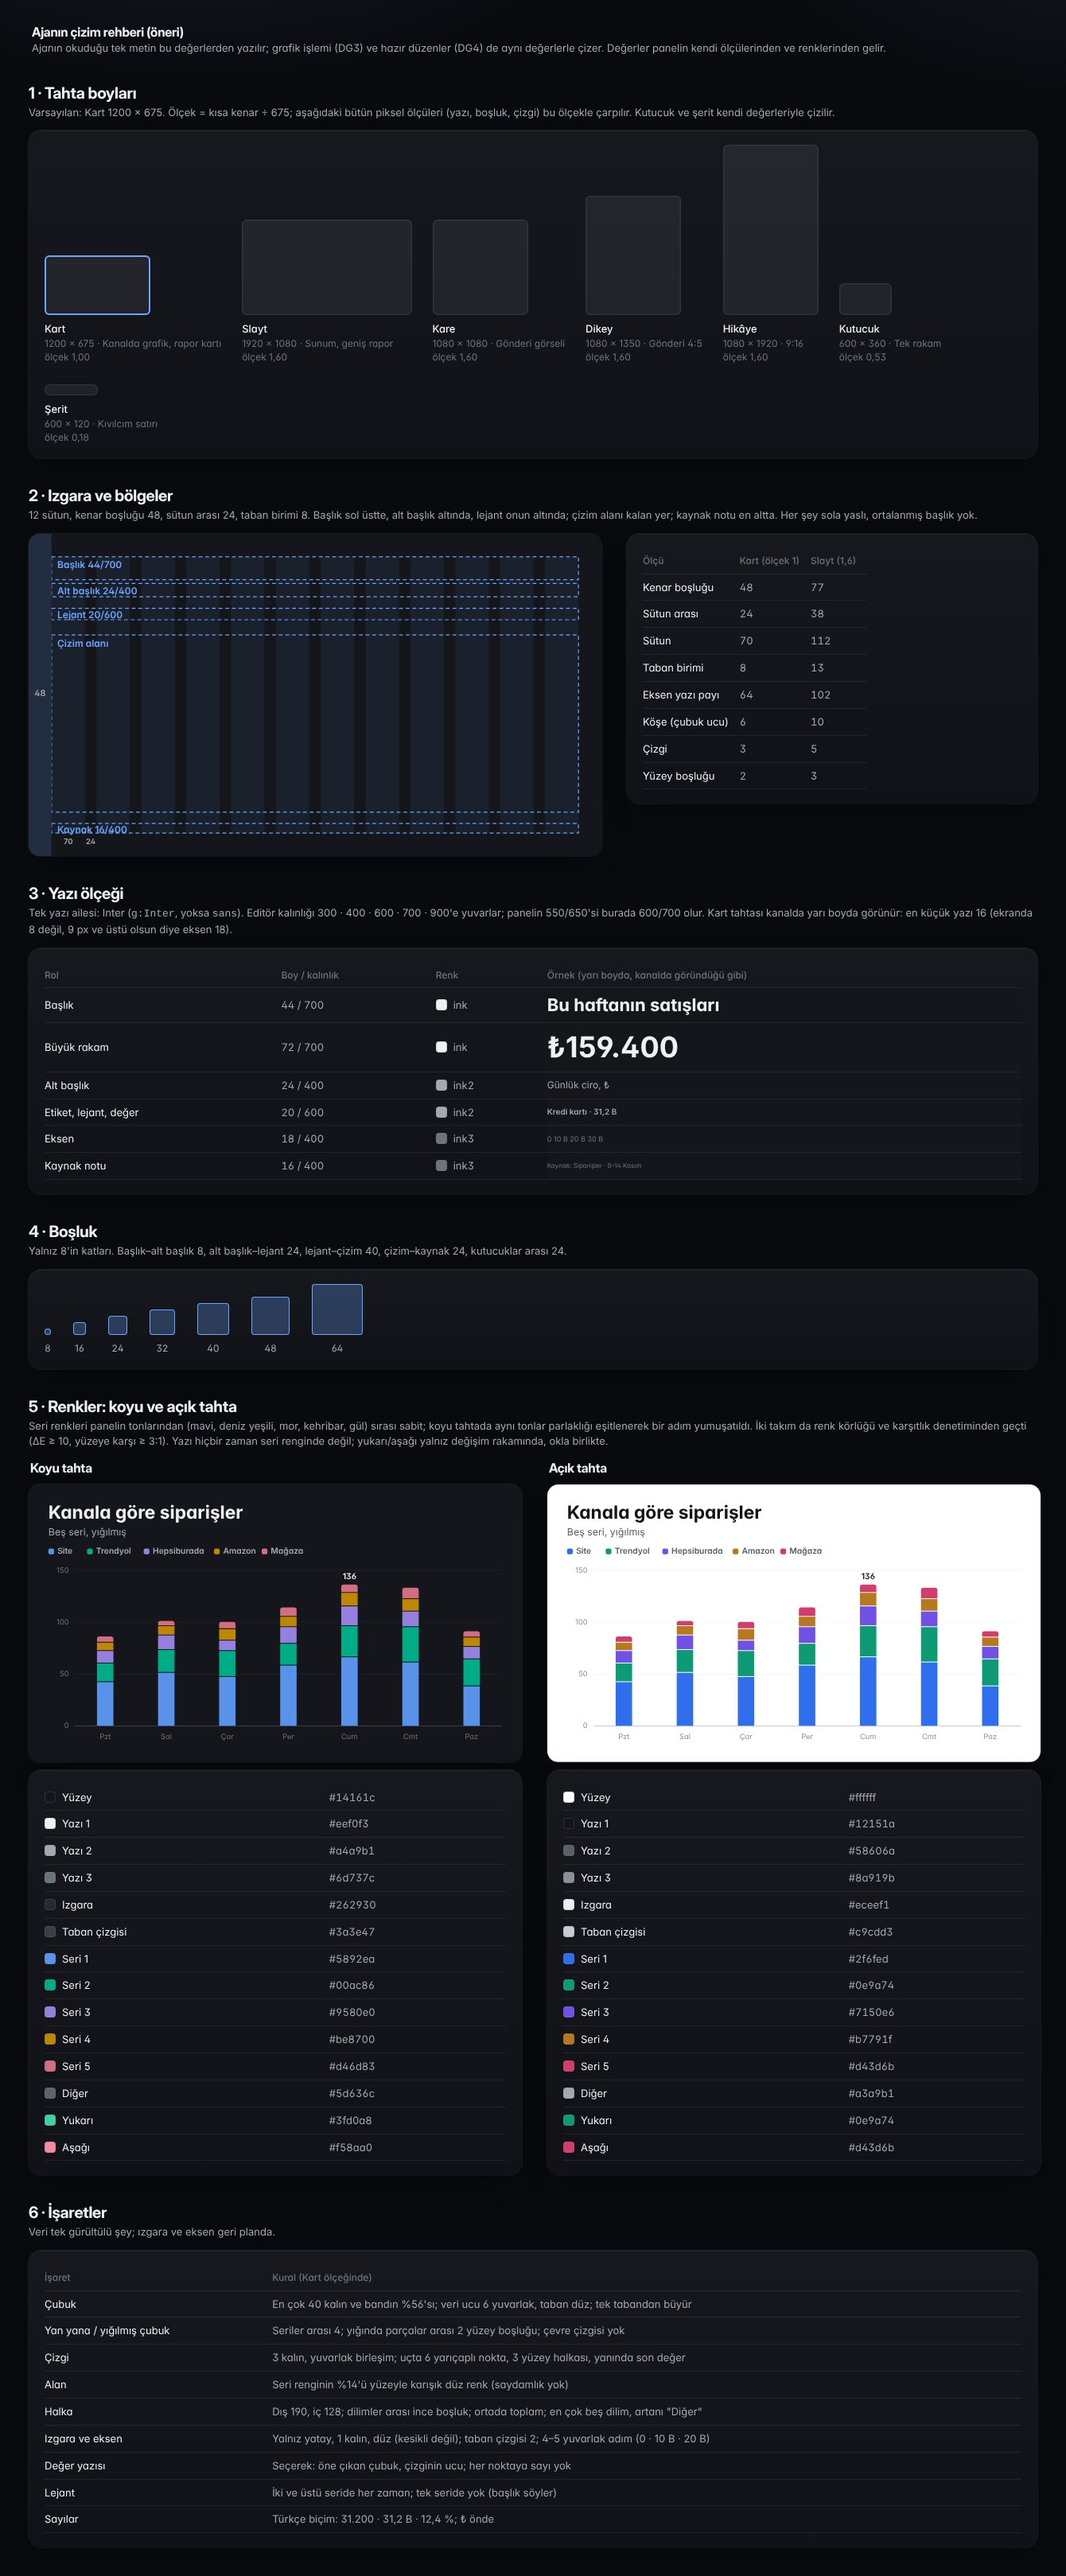
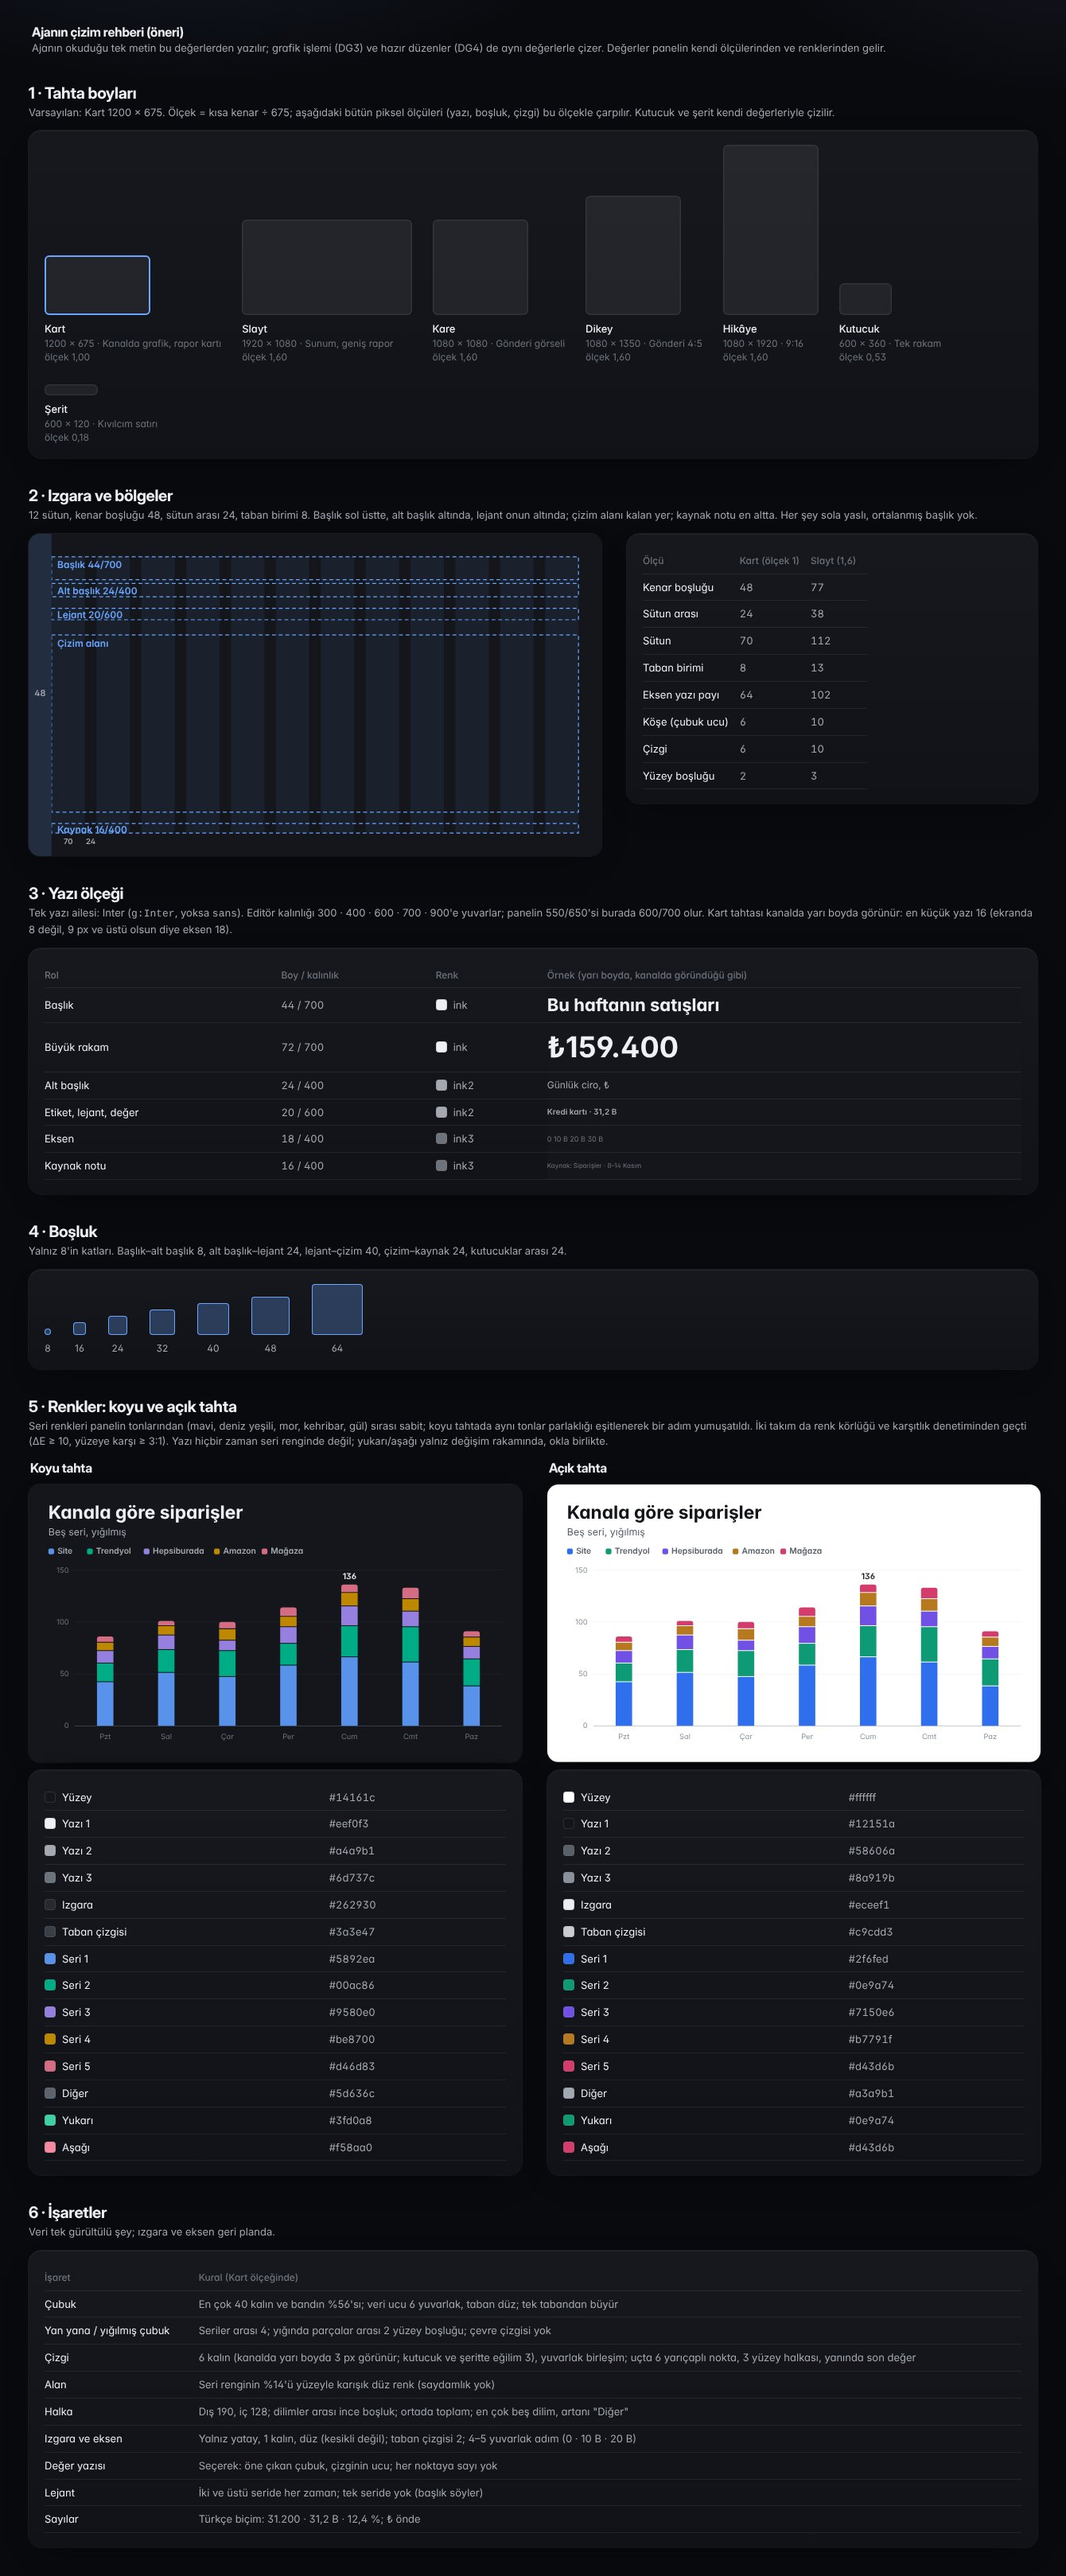
Agent drawing guides: the line is 6 on the card board in the sheet, its values and the census

Changed region(s): [[0.1836, 0.8734, 0.5813, 0.9981]]

diff --git a/docs/memory/plans/agent-drawing-guides/guide.html b/docs/memory/plans/agent-drawing-guides/guide.html
@@ -45,7 +45,7 @@ document.getElementById('presets').innerHTML = pr.map(function (p) { return '<di
   s += '<rect x="0" y="0" width="' + m + '" height="' + h + '" fill="' + gMix(a, P.bg, 0.16) + '"/>' + gText(24, 340, '48', 18, 600, P.ink2, 'middle');
   s += gText(m + cw + g / 2, 650, '24', 16, 600, P.ink2, 'middle') + gText(m + cw / 2, 650, Math.round(cw) + '', 16, 600, P.ink2, 'middle');
   document.getElementById('gridboard').innerHTML = gBoard({ w: w, h: h, dw: 720 }, s, P);
-  document.getElementById('gridvals').innerHTML = '<tr><th>Ölçü</th><th>Kart (ölçek 1)</th><th>Slayt (1,6)</th></tr>' + [['Kenar boşluğu', 48], ['Sütun arası', 24], ['Sütun', 70], ['Taban birimi', 8], ['Eksen yazı payı', 64], ['Köşe (çubuk ucu)', 6], ['Çizgi', 3], ['Yüzey boşluğu', 2]].map(function (r) { return '<tr><td>' + r[0] + '</td><td class="n">' + r[1] + '</td><td class="n">' + Math.round(r[1] * 1.6) + '</td></tr>'; }).join(''); })();
+  document.getElementById('gridvals').innerHTML = '<tr><th>Ölçü</th><th>Kart (ölçek 1)</th><th>Slayt (1,6)</th></tr>' + [['Kenar boşluğu', 48], ['Sütun arası', 24], ['Sütun', 70], ['Taban birimi', 8], ['Eksen yazı payı', 64], ['Köşe (çubuk ucu)', 6], ['Çizgi', 6], ['Yüzey boşluğu', 2]].map(function (r) { return '<tr><td>' + r[0] + '</td><td class="n">' + r[1] + '</td><td class="n">' + Math.round(r[1] * 1.6) + '</td></tr>'; }).join(''); })();
 
 var ty = [['Başlık', 44, 700, 'ink', 'Bu haftanın satışları'], ['Büyük rakam', 72, 700, 'ink', '₺159.400'], ['Alt başlık', 24, 400, 'ink2', 'Günlük ciro, ₺'], ['Etiket, lejant, değer', 20, 600, 'ink2', 'Kredi kartı · 31,2 B'], ['Eksen', 18, 400, 'ink3', '0   10 B   20 B   30 B'], ['Kaynak notu', 16, 400, 'ink3', 'Kaynak: Siparişler · 8–14 Kasım']];
 document.getElementById('type').innerHTML = '<tr><th>Rol</th><th>Boy / kalınlık</th><th>Renk</th><th>Örnek (yarı boyda, kanalda göründüğü gibi)</th></tr>' + ty.map(function (t) { return '<tr><td>' + t[0] + '</td><td class="n">' + t[1] + ' / ' + t[2] + '</td><td class="n"><span class="gsw" style="background:' + P[t[3]] + '"></span>' + t[3] + '</td><td style="font-size:' + t[1] / 2 + 'px;font-weight:' + t[2] + ';color:' + P[t[3]] + ';background:' + P.bg + ';line-height:1.3">' + t[4] + '</td></tr>'; }).join('');
@@ -59,7 +59,7 @@ document.getElementById('pal').innerHTML = [['Koyu tahta', G.dark], ['Açık tah
 document.getElementById('marks').innerHTML = '<tr><th>İşaret</th><th>Kural (Kart ölçeğinde)</th></tr>' + [
   ['Çubuk', 'En çok 40 kalın ve bandın %56\'sı; veri ucu 6 yuvarlak, taban düz; tek tabandan büyür'],
   ['Yan yana / yığılmış çubuk', 'Seriler arası 4; yığında parçalar arası 2 yüzey boşluğu; çevre çizgisi yok'],
-  ['Çizgi', '3 kalın, yuvarlak birleşim; uçta 6 yarıçaplı nokta, 3 yüzey halkası, yanında son değer'],
+  ['Çizgi', '6 kalın (kanalda yarı boyda 3 px görünür; kutucuk ve şeritte eğilim 3), yuvarlak birleşim; uçta 6 yarıçaplı nokta, 3 yüzey halkası, yanında son değer'],
   ['Alan', 'Seri renginin %14\'ü yüzeyle karışık düz renk (saydamlık yok)'],
   ['Halka', 'Dış 190, iç 128; dilimler arası ince boşluk; ortada toplam; en çok beş dilim, artanı "Diğer"'],
   ['Izgara ve eksen', 'Yalnız yatay, 1 kalın, düz (kesikli değil); taban çizgisi 2; 4–5 yuvarlak adım (0 · 10 B · 20 B)'],

diff --git a/docs/memory/plans/agent-drawing-guides/guide.js b/docs/memory/plans/agent-drawing-guides/guide.js
@@ -53,7 +53,7 @@ function gLine(o, P, area) {
   o.labels.forEach(function (lab, i) { if (i % (o.every || 1) === 0 || i === n - 1) s += gText(X(i), bot + 32, lab, 18, 400, P.ink3, 'middle'); });
   o.series.forEach(function (r, j) { var c = P.series[j], d = r.map(function (v, i) { return (i ? 'L' : 'M') + X(i).toFixed(1) + ' ' + ax.y(v).toFixed(1); }).join('');
     if (area) s += '<path d="' + d + 'L' + X(n - 1) + ' ' + bot + 'L' + X(0) + ' ' + bot + 'Z" fill="' + gMix(c, P.bg, 0.14) + '"/>';
-    s += '<path d="' + d + '" fill="none" stroke="' + c + '" stroke-width="3" stroke-linejoin="round" stroke-linecap="round"/>';
+    s += '<path d="' + d + '" fill="none" stroke="' + c + '" stroke-width="6" stroke-linejoin="round" stroke-linecap="round"/>';
     var ly = ax.y(r[n - 1]); s += '<circle cx="' + X(n - 1) + '" cy="' + ly + '" r="9" fill="' + P.bg + '"/><circle cx="' + X(n - 1) + '" cy="' + ly + '" r="6" fill="' + c + '"/>' + gText(X(n - 1) + 18, ly + 6, gNum(r[n - 1]), 20, 600, P.ink); });
   return gBoard(t, s, P);
 }

diff --git a/docs/memory/workspace/INDEX.md b/docs/memory/workspace/INDEX.md
@@ -23,7 +23,7 @@
 - agent-discussion-reach.md: A channel's registry agent asked in the channel's discussions by name (A4b3 #8600): ws_agent_reach_rows(), the merged row, its readers, what stays the discussion's own [decision: decisions-made-workspace-12.md]
 - agent-door-knock-trial.md: Push door trial (dev, 2026-11-13): the site's knock reached a signed receiver in the same second; what a session on a personal computer still needs; a routine's fire address answered HTTP 400
 - agent-doors.md: The agents' request queue: wake rules make one ws_ai_requests row per agent (agent:<id>, model:<id>), the brakes, the push knock and its retry, the agent-requests routes (A4a #8221)
-- agent-drawing-guides-census.md: DG1 census and proposal: what today's agent charts lack, and the guide's proposed boards, grid, type, spacing, two board palettes, marks and seven chart kinds
+- agent-drawing-guides-census.md: DG1 census and proposal: what today's agent charts lack, and the guide's proposed boards, grid, type, spacing, two board palettes, marks and seven chart kinds [decision: here]
 - agent-edit-hold.md: An agent waits while its message is edited: the edit box's beat, held_until, "Being edited, @agent is waiting", 409 editing / edited, a save in each status (#8869) [decision: decisions-made-schema-16.md, decisions-made-workspace-14.md]
 - agent-emoji.md: The one fitting emoji an agent leaves on the message that asked it (#8932): the brief, the answer route's emoji, a model assistant's answer tool, what is refused [decision: decisions-made-workspace-19.md]
 - agent-flows.md: The flows part of the agent risk tiers (flow_agent_box.php, A7b): the Ask an agent box (kind agent) and runs an application agent starts within its channel tier

diff --git a/docs/memory/workflow/DECISIONS.md b/docs/memory/workflow/DECISIONS.md
@@ -713,6 +713,7 @@ Search it rather than read it whole, then open the part or file that matches: `g
 - workspace/agent-channel-flag.md: Agent channel switch (ws_channels.agent_channel, #8440): /agent-channel on|off, its decisions kept apart on the decisions screen, the dashboard and GET /workspace/decisions
 - workspace/agent-checklist-questions.md: Checklist questions over a poll; reading ticks (checks) and an application ticking a line (POST …/checks, app_id), a roll call, the wake on a tick, the closing decision; who a question rings
 - workspace/agent-conclude-discussion.md: An agent concludes a discussion when a person in it asks (conclude, #9404) and unasked only offers a Conclude button a person presses (offer_conclude, #9416); who may ask, the lines, the button
+- workspace/agent-drawing-guides-census.md: DG1 census and proposal: what today's agent charts lack, and the guide's proposed boards, grid, type, spacing, two board palettes, marks and seven chart kinds
 - workspace/agent-edit-hold.md: An agent waits while its message is edited: the edit box's beat, held_until, "Being edited, @agent is waiting", 409 editing / edited, a save in each status (#8869)
 - workspace/agent-key-trial-memory.md: Channel memory written live on dev (2026-11-11) with an application agent's key: create, read, list, update and delete by POST, dry runs, refusals, the entry's line in the brief
 - workspace/agent-last-seen.md: An agent's last seen: ws_agents.seen_at set by every call with an app agent's own key, once a minute at most, and the words on the Agents card and in "Agents in this channel" (#8828)

diff --git a/docs/memory/workspace/agent-canvas-chart.md b/docs/memory/workspace/agent-canvas-chart.md
@@ -10,7 +10,7 @@ description: The chart canvas operation (canvas_chart.php): kinds, data, boards,
 
 ## How is it drawn?
 - `ws_canvas_chart_check()` checks and fills the defaults; `ws_canvas_chart_svg()` writes SVG by `ws_canvas_guide_values()` (`agent-canvas-guide.md`), in base units under a viewBox scaled to the board, each part a top-level element with an id.
-- Lines are 6 on a scaled board, so a card shown at half size reads as wide as a tile's or sparkline's trend of 3; the axis takes one more step when the top value would end near the top gridline, so its label has room.
+- Owner (2026-11-14, message 2955, asked which line width): "Kalın: 6". Lines are 6 on a scaled board (3 px at the channel's half size), a tile's or sparkline's trend 3 on its own board; the axis takes one more step when the top value would end near the top gridline, so its label has room.
 - It is laid in as the svg operation with layers split: the whole canvas anew, texts as text layers in `g:Inter`, marks as svg layers. Redrawing with changed data is the same operation again.
 - The test opens every kind's document with the editor's `M.canvasOpenDoc()` in Node (`tests/workspace_canvas_chart_test.php`).
 

diff --git a/docs/memory/workspace/agent-drawing-guides-census.md b/docs/memory/workspace/agent-drawing-guides-census.md
@@ -25,7 +25,7 @@ description: DG1 census and proposal: what today's agent charts lack, and the gu
 
 ## Which marks?
 - Bar at most 40 thick and 56 % of its band, 6 radius on the data end, square at the baseline; 4 between grouped bars, 2 surface gap in a stack, no outlines.
-- Line 3, round joins; end dot r 6 with a 3 surface ring and the last value beside it. Area: the series mixed 14 % into the surface as a solid colour, so the layer stays editable.
+- Line 6 on the card board, read as 3 px at the channel's half size (owner, 2026-11-14, message 2955: "Kalın: 6"); a tile's or strip's trend 3; round joins; end dot r 6 with a 3 surface ring and the last value beside it. Area: the series mixed 14 % into the surface as a solid colour, so the layer stays editable.
 - Donut: outer 190, inner 128, total in the middle, legend at the right with count and share.
 - Grid horizontal only, 1 thick, solid; baseline 2; 4-5 round steps. Values labelled selectively (the highlighted bar, line ends). Legend from two series up. Numbers in Turkish format (31.200, 31,2 B, 12,4 %, ₺ first).
 
